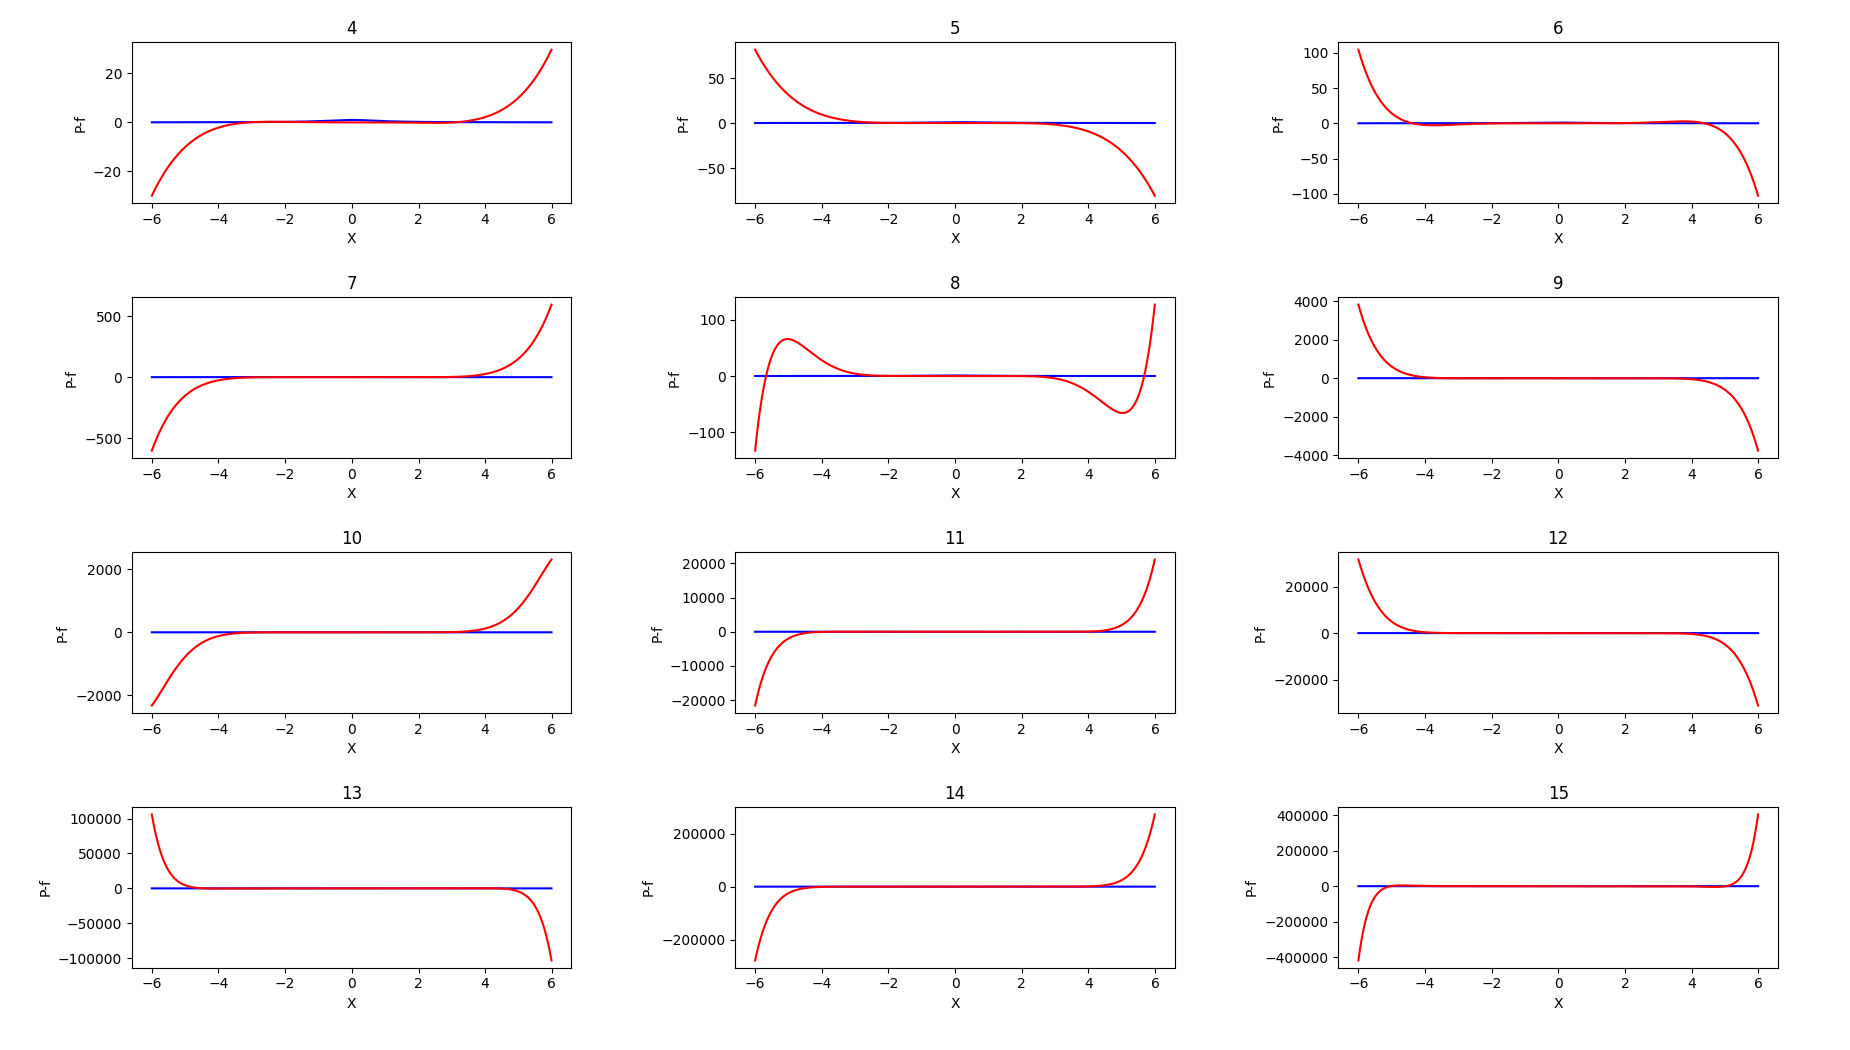
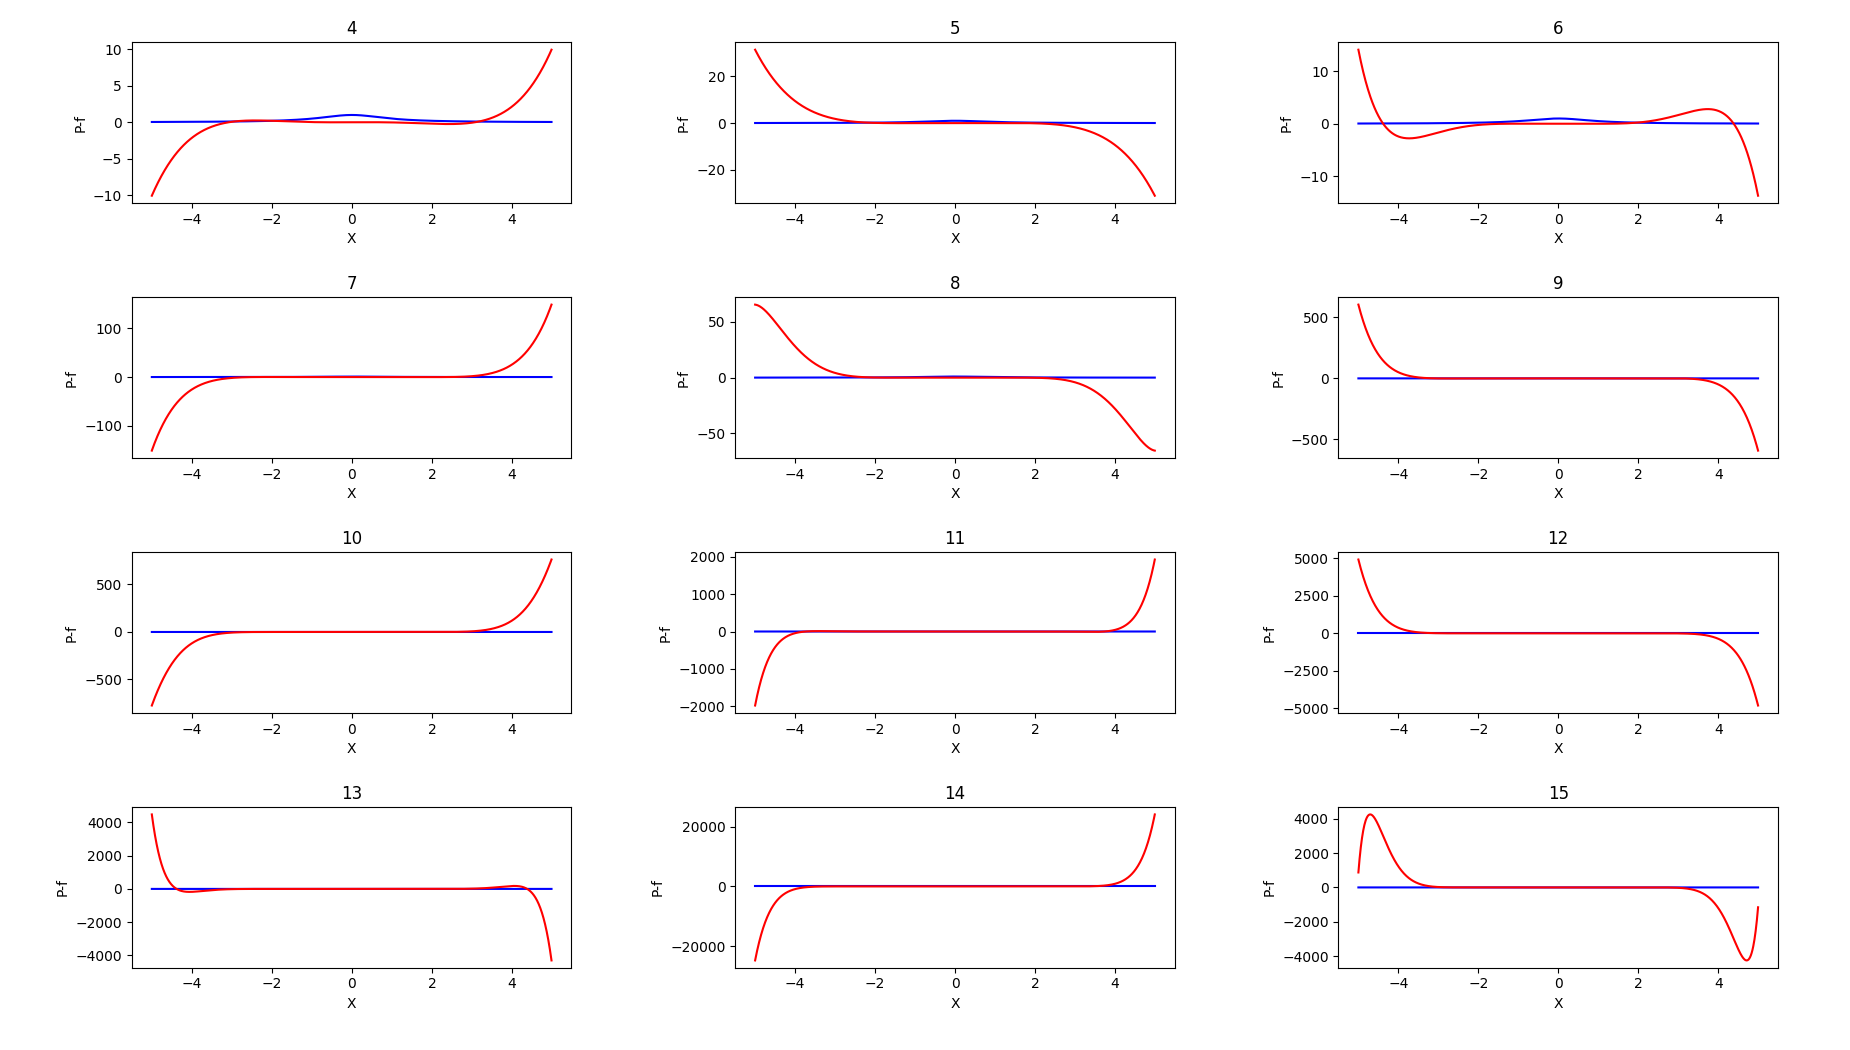
commit changes in task5

diff --git a/task5/task5.py b/task5/task5.py
@@ -128,7 +128,7 @@ def run_lagrange():
             x_points.append(f_x(k, n))
             y_points.append(f_y(x_points[k]))
             #print(n, len(x_points), len(y_points))
-        x = np.arange(-6., 6., 0.01)
+        x = np.arange(-5., 5., 0.01)
         polynom = []
         f_points, p_points = [], []
         for i in range(len(x)):
@@ -136,7 +136,7 @@ def run_lagrange():
 
             p = Lagrange(x_points, y_points, x[i], n+1)
 
-            polynom.append(f - p)
+            polynom.append(p - f)
         axs[(n-4)//3, (n-4) % 3].plot(x, polynom, color='blue')
         axs[(n-4)//3, (n-4) % 3].set(xlabel='X')
         axs[(n-4)//3, (n-4) % 3].set(ylabel='P-f')
@@ -155,7 +155,7 @@ def run_lagrange_two_plots():
             x_points.append(f_x(k, n))
             y_points.append(f_y(x_points[k]))
             # print(n, len(x_points), len(y_points))
-        x = np.arange(-6., 6., 0.01)
+        x = np.arange(-5., 5., 0.01)
         polynom = []
         f_points, p_points = [], []
         for i in range(len(x)):
@@ -165,7 +165,7 @@ def run_lagrange_two_plots():
             p = Lagrange(x_points, y_points, x[i], n+1)
             p_points.append(p)
 
-            print(f, p)
+            # print(f, p)
 
         axs[(n - 4) // 3, (n - 4) % 3].plot(x, f_points, color='blue')
         axs[(n - 4) // 3, (n - 4) % 3].plot(x, p_points, color='red')

diff --git a/main.py b/main.py
@@ -9,4 +9,4 @@ from task8 import task8
 
 if __name__ == '__main__':
 
-    task8.run()
+    task5.run_lagrange()
